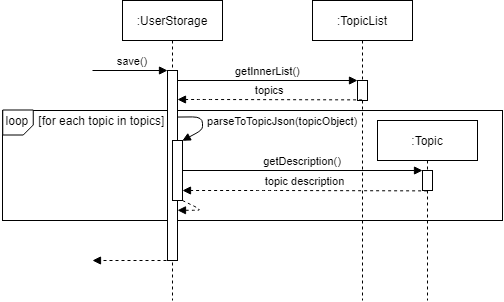
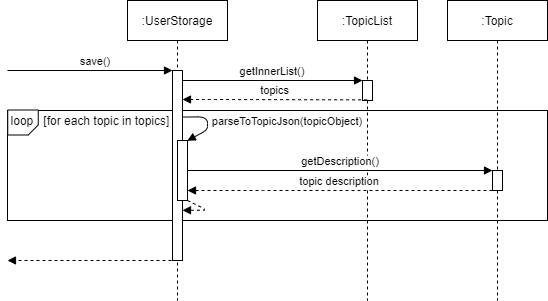
Update diagrams

diff --git a/src/main/java/seedu/eduke8/storage/UserStorage.java b/src/main/java/seedu/eduke8/storage/UserStorage.java
@@ -73,6 +73,7 @@ public class UserStorage extends LocalStorage {
      * @throws ParseException       If the file contents cannot be parsed as a JSON.
      * @throws ClassCastException   If the the nesting of arrays and objects in the JSON is wrong
      * @throws NullPointerException If the keys required are not present in the file.
+     * @throws Eduke8Exception      If the file has been tampered with wrongly.
      */
     @Override
     public ArrayList<Displayable> load()

diff --git a/src/main/java/seedu/eduke8/storage/TopicsStorage.java b/src/main/java/seedu/eduke8/storage/TopicsStorage.java
@@ -44,6 +44,7 @@ public class TopicsStorage extends LocalStorage {
      * @throws ParseException  If the file contents cannot be parsed as a JSON.
      * @throws ClassCastException If the the nesting of arrays and objects in the JSON is wrong
      * @throws NullPointerException If the keys required are not present in the file.
+     * @throws Eduke8Exception      If the file has been tampered with wrongly.
      */
     @Override
     public ArrayList<Displayable> load()

diff --git a/docs/DeveloperGuide.md b/docs/DeveloperGuide.md
@@ -372,17 +372,21 @@ program will continue to run.
 #### 2.4.4. Implementation of UserStorage
 
 Unlike `TopicsStorage` which constructs objects, `UserStorage` accesses existing objects in order to extract their attributes.
-The following sequence diagram shows an example of getting the topic description from a `Topic` object within the `TopicList`.
+The following sequence diagram shows an example of getting the topic description from a `Topic` object within the `TopicList` in order to save attributes for that particular `Topic` object.
 
 ![UserStorage::save Sequence Diagram](./images/UserStorage_save.png)
 
 It can be noted here that the `Topic` object is the same one constructed by `TopicsStorage` and continues to persist until the program shuts down.
+
 A similar method is used to extract the attributes from each `Question` object inside the `Topic` object.
 For example, the `wasAnsweredCorrectly` method is called on the `Question` object to check if it was answered
 correctly by the user or not.
 This value is then stored as an attribute of the question in the JSON file.
+
 Loading back the user data is done in reverse. If the boolean value of the key `correct` is true for a
-particular question, then the `markAsAnsweredCorrectly` method is called on the corresponding `Question` object.
+particular question, then the `markAsAnsweredCorrectly` method is called on the corresponding `Question` object. This is depicted below.
+
+![UserStorage::load Sequence Diagram](./images/UserStorage_load.png)
 
 ### 2.5. UI Component
 
